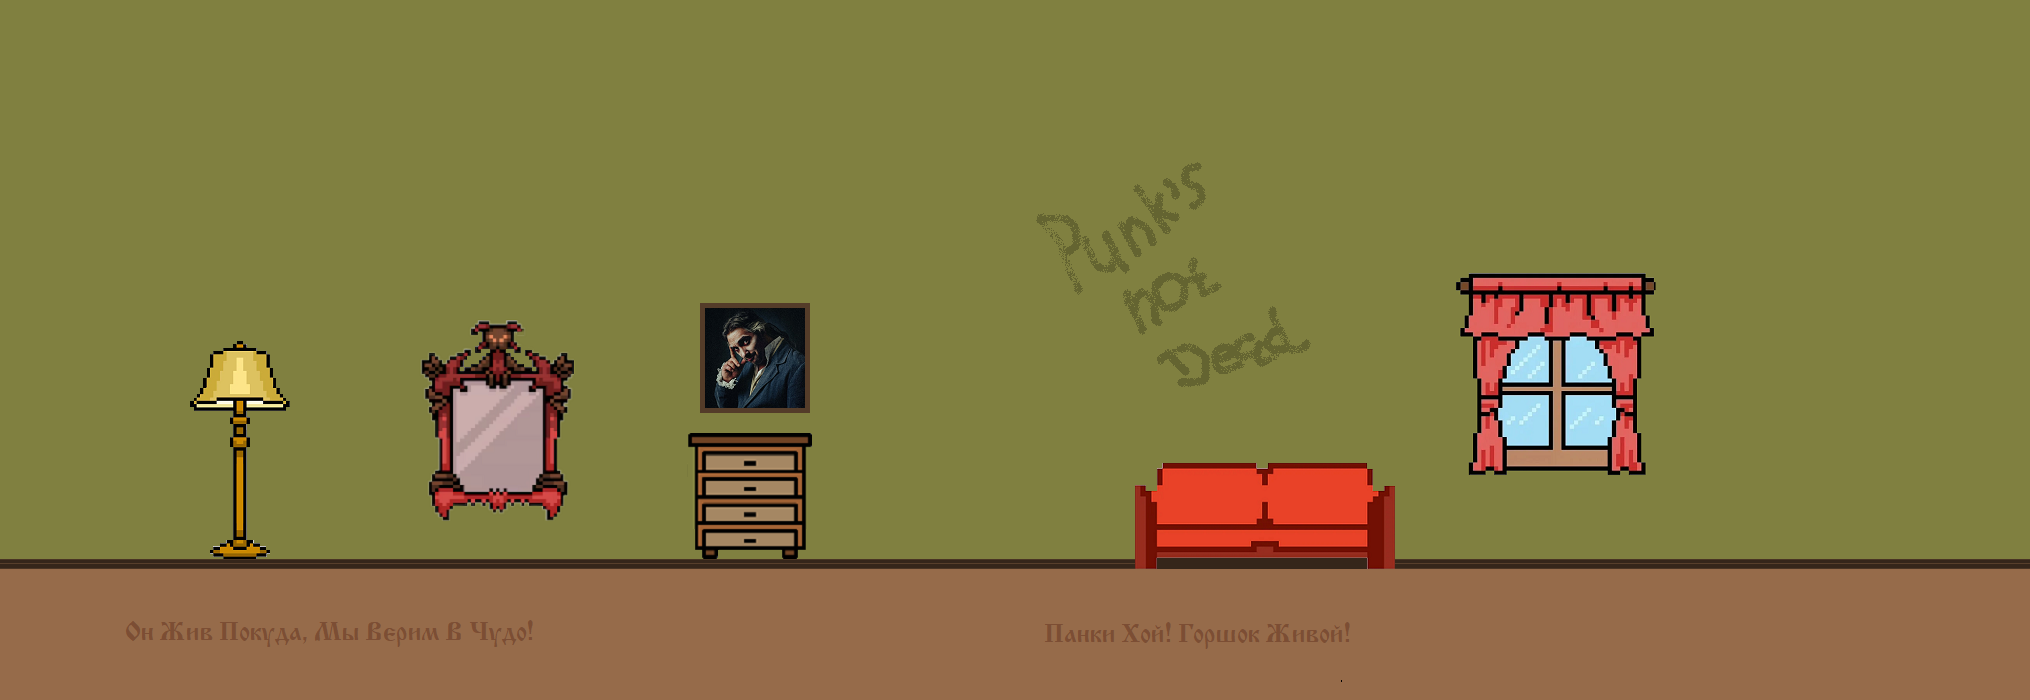
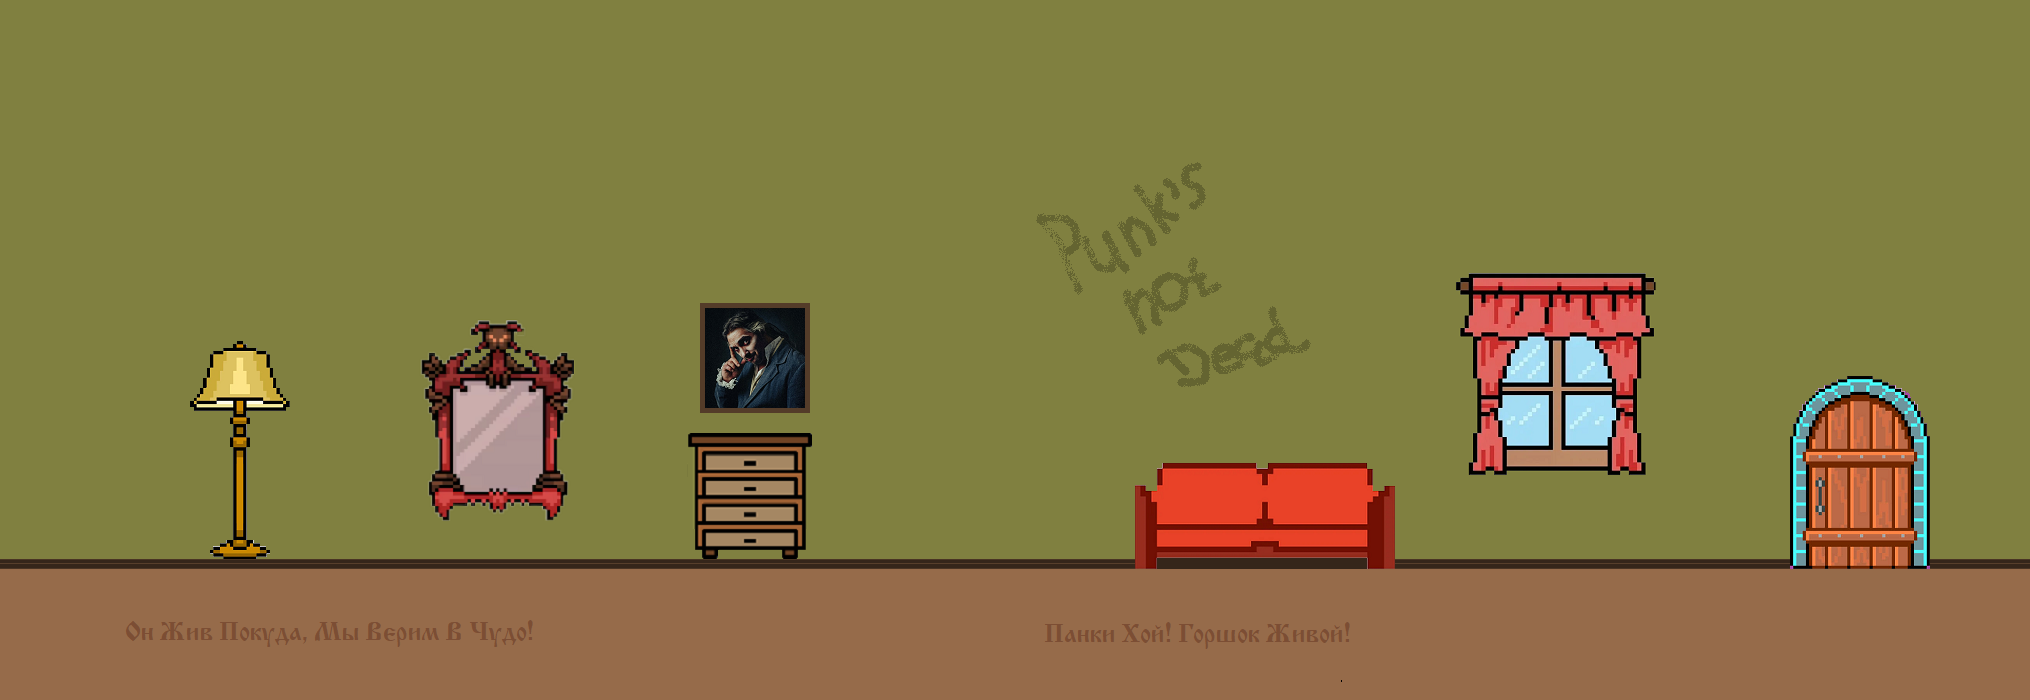
Злодей и Шапка путь до базара

Changed region(s): [[0.869, 0.54, 0.9621, 0.81]]

diff --git a/KingTheFools.py b/KingTheFools.py
@@ -79,20 +79,24 @@ choice_menu = False
 choice_menu2 = False
 
 # СОЗДАЁМ ТЕКСТУРЫ
-on_grass_img = pygame.image.load('assets/images/компоненты локации/grass.png')
-on_grass_img = pygame.transform.scale(on_grass_img, [70, 70])
+grass_img = pygame.image.load('assets/images/компоненты локации/grass.png') # символ в массиве "g"
 
-stone_briks_img = pygame.image.load('assets/images/компоненты локации/stone_bricks.png') # символ в массиве "s"
+stone_bricks_img = pygame.image.load('assets/images/компоненты локации/stone_bricks.png') # символ в массиве "s"
 
-dirt_img = pygame.image.load('assets/images/компоненты локации/dirt.png')
+dirt_img = pygame.image.load('assets/images/компоненты локации/dirt.png') # символ в массиве "з"
 
 stone_img = pygame.image.load('assets/images/компоненты локации/stone.png')
-stone_img = pygame.transform.scale(stone_img, [70, 70])
 
-board = pygame.image.load('assets/images/компоненты локации/boards.png') # символ в массиве "b"
+board_img = pygame.image.load('assets/images/компоненты локации/boards.png') # символ в массиве "b"
 
-door_img = pygame.image.load('assets/images/компоненты локации/door1.png') # символ в массиве "d"
+board2_img = pygame.image.load('assets/images/компоненты локации/boards2.png') # символ в массиве "б"
 
+tree_img = pygame.image.load('assets/images/компоненты локации/tree.png') # символ в массиве "t"
+
+# плэйт позволяющий сменить локацию
+next_location = pygame.image.load('assets/images/компоненты локации/next_location.png') # символ в массиве "e"
+
+# альбомы
 alb1_img = pygame.image.load('assets/images/обложки альбомов/alb1.png')
 alb1_rect = alb1_img.get_rect()
 alb1_rect.x = 300
@@ -211,21 +215,38 @@ villain_and_hat_map = [
     's             s         s   sss',
     's                           sss',
     's                           sss',
-    's                         d sss',
-    'sbbbbbbbbbbbbbbbbbbbbbbbbbbbsss',
+    's                           sss',
+    'sbbbbbbbbbbbbbbbbbbbbbbbbbebsss',
     'sbbbbbbbbbbbbbbbbbbbbbbbbbbbsss',
     'sbbbbbbbbbbbbbbbbbbbbbbbbbbbsss',
     '-------------------------------',
     '-------------------------------',
 ]
 
+villain_and_hat_map_2 = [
+    '                                                                                             ',
+    '                                                                                             ',
+    '                                                                                             ',
+    'ssssssssssss                                                                                 ',
+    'ssssssssssss                                                                                 ',
+    'ssssssssssss                                                                                 ',
+    'ssssssssssss           tбббt                                                                 ',
+    'ssssssssssss           tбббt                                                                 ',
+    'ssssssssssss           tбббt                                                                 ',
+    'ssssssssssssggggggggggggggggggggggggggggggggggggggggggggggggggggggggggggggggggggggggggggggggg',
+    'ззззззззззззззззззззззззззззззззззззззззззззззззззззззззззззззззззззззззззззззззззззззззззззз',
+    'ззззззззззззззззззззззззззззззззззззззззззззззззззззззззззззззззззззззззззззззззззззззззззззз',
+    'ззззззззззззззззззззззззззззззззззззззззззззззззззззззззззззззззззззззззззззззззззззззззззззз',
+]
+
 grasses = []
 dirts = []
 stones = []
 boards = []
+boards2 = []
 stone_bricks = []
-doors = []
-
+trees = []
+next_lvl = []
 map_now = villain_and_hat_map
 # run = False
 # frame = 0
@@ -242,6 +263,8 @@ camera_x = 0
 speed = 4
 change_x = 0
 
+location_switched = False
+
 # Управление
 def move(character_rect, character_left_rect, speed):
     global jump, jump_count, on_grass, on_board, on_brick, testy, test, bg_now_coords_x, person_now
@@ -250,6 +273,7 @@ def move(character_rect, character_left_rect, speed):
 
     # Горизонтальное движение
     change_x = 0
+    change_y = 0
     if keys[pygame.K_a]:  # Движение влево
         person_now = character_left_rect
         change_x = -speed
@@ -289,12 +313,12 @@ def move(character_rect, character_left_rect, speed):
         jump_count = 0  # Сбрасываем счётчик прыжка
 
     # Ограничение персонажа по X, чтобы он не уходил за пределы экрана
-    if character_rect.x + change_x < 50:  # Левый край экрана
-        character_rect.x = 50
+    if character_rect.x + change_x < 200:  # Левый край экрана
+        character_rect.x = 200
         test += 6
         bg_now_coords_x += 6
-    elif character_rect.x + change_x > (WIDTH - character_rect.width)-50:  # Правый край экрана
-        character_rect.x = (WIDTH - character_rect.width)-50
+    elif character_rect.x + change_x > (WIDTH - character_rect.width)-200:  # Правый край экрана
+        character_rect.x = (WIDTH - character_rect.width)-200
         test -= 6
         bg_now_coords_x -= 6
     else:
@@ -403,24 +427,55 @@ while True:
         for i in range(len(map_now)):
             for j in range(len(map_now[i])):
                 if map_now[i][j] == 'b':
-                    board_rect = board.get_rect()
+                    board_rect = board_img.get_rect()
                     board_rect.x = board_rect.width * j + test
                     board_rect.y = board_rect.height * i + testy
                     boards.append(board_rect)
-                    window.blit(board, board_rect)   
+                    window.blit(board_img, board_rect)   
                 elif map_now[i][j] == 's':
-                    stone_briks_rect = stone_briks_img.get_rect()
+                    stone_briks_rect = stone_bricks_img.get_rect()
                     stone_briks_rect.x = stone_briks_rect.width * j + test
                     stone_briks_rect.y = stone_briks_rect.height * i + testy
                     stone_bricks.append(stone_briks_rect)
-                    window.blit(stone_briks_img, stone_briks_rect)
-                elif map_now[i][j] == 'd':
-                    door_rect = door_img.get_rect()
-                    door_rect.x = door_rect.width * j + test
-                    door_rect.y = door_rect.height * i + testy
-                    doors.append(door_rect)
-                    window.blit(door_img, door_rect)
-                
+                    window.blit(stone_bricks_img, stone_briks_rect)   
+                elif map_now[i][j] == 'e':
+                    next_location_rect = next_location.get_rect()
+                    next_location_rect.x = next_location_rect.width * j + test
+                    next_location_rect.y = next_location_rect.height * i + testy
+                    next_lvl.append(next_location_rect)
+                    window.blit(next_location, next_location_rect)
+                elif map_now[i][j] == 'g':
+                    grass_rect = grass_img.get_rect()
+                    grass_rect.x = grass_rect.width * j + test
+                    grass_rect.y = grass_rect.height * i + testy
+                    grasses.append(grass_rect)
+                    window.blit(grass_img, grass_rect)
+                elif map_now[i][j] == 'з':
+                    dirt_rect = grass_img.get_rect()
+                    dirt_rect.x = grass_rect.width * j + test
+                    dirt_rect.y = grass_rect.height * i + testy
+                    dirts.append(dirt_rect)
+                    window.blit(dirt_img, dirt_rect)
+                elif map_now[i][j] == 't':
+                    tree_rect = tree_img.get_rect()
+                    tree_rect.x = tree_rect.width * j + test
+                    tree_rect.y = tree_rect.height * i + testy
+                    trees.append(tree_rect)
+                    window.blit(tree_img, tree_rect)
+                elif map_now[i][j] == 'б':
+                    board2_rect = board2_img.get_rect()
+                    board2_rect.x = board2_rect.width * j + test
+                    board2_rect.y = board2_rect.height * i + testy
+                    boards2.append(board2_rect)
+                    window.blit(board2_img, board2_rect)
+
+        if next_location_rect.collidepoint(pos):
+            bg_now = background
+            bg_now_coords_x = 0
+            map_now = villain_and_hat_map_2
+            change_x = 50
+            
+
         window.blit(villian_now, villian_rect)
         pygame.display.update()
 
